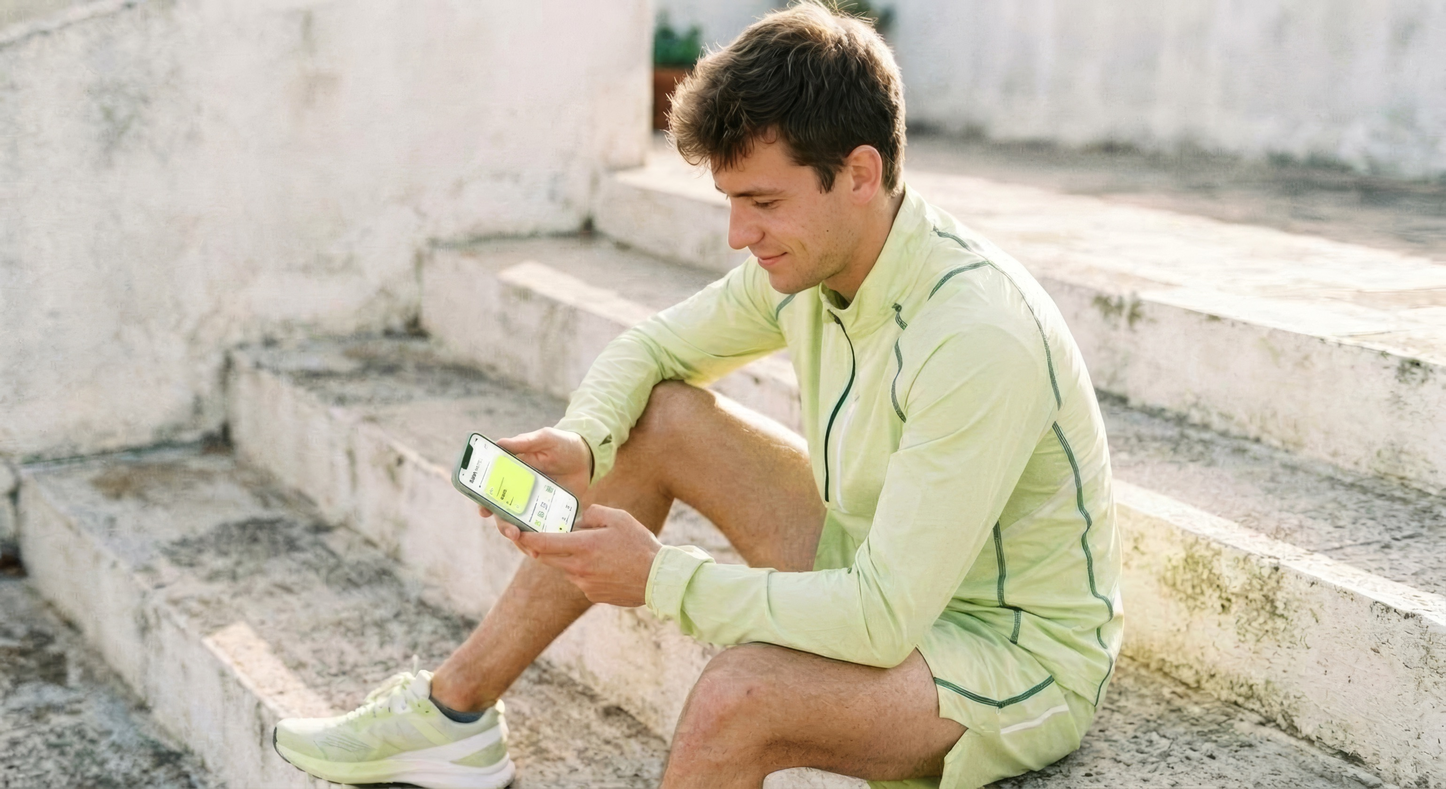
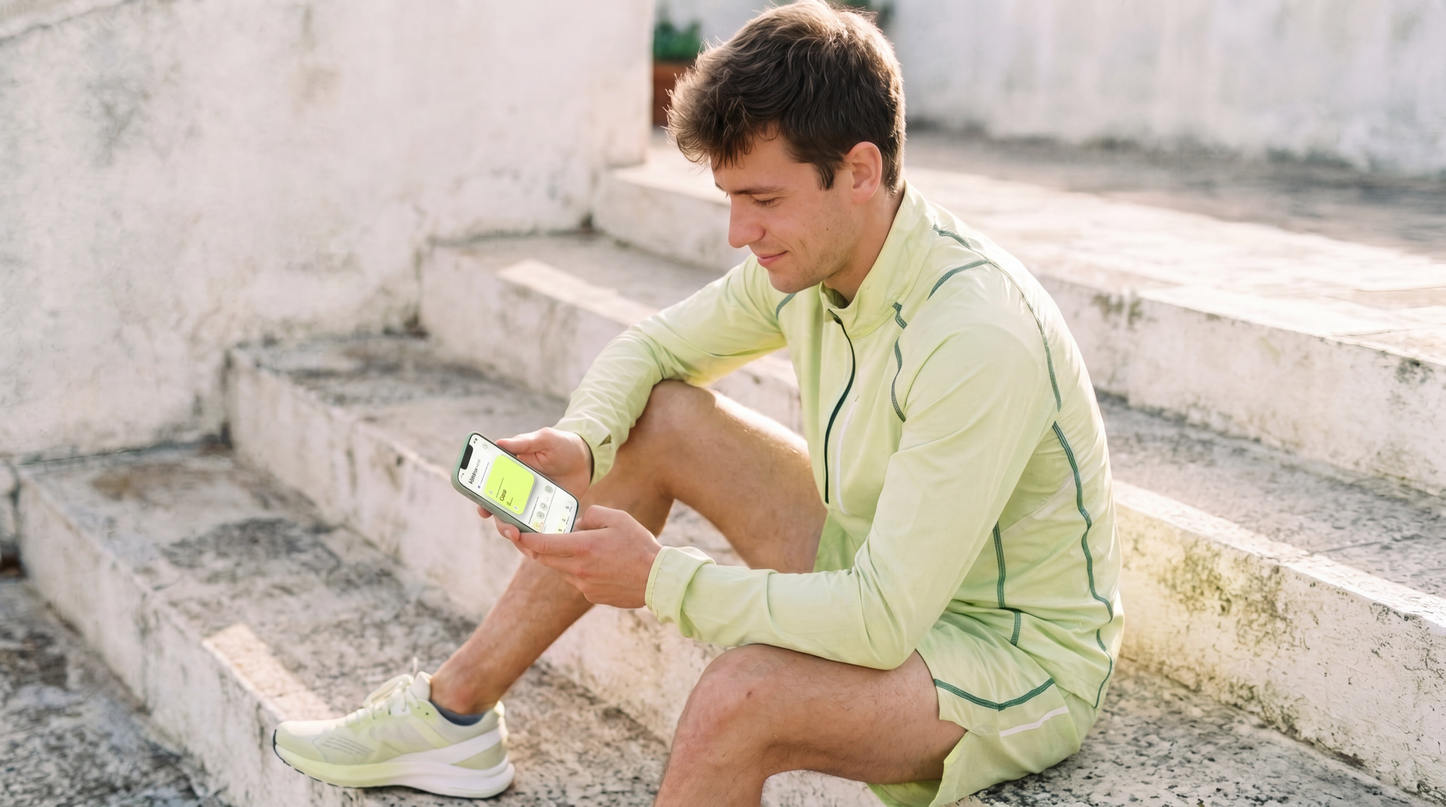
ReSway-Case: Läufer-Foto scharf, mit echtem Heute-Screen auf dem Handy

diff --git a/case-resway.html b/case-resway.html
@@ -64,7 +64,7 @@
       <p class="vi-lead"><span class="vi-mute">ReSway ist keine weitere Tracking-App, die Serien zählt.</span> Sie ist für den Moment danach: wenn eine Routine abgebrochen ist und der Wiedereinstieg am schwersten fällt.</p>
     </div>
     <figure class="vi-img">
-      <svg class="vi-photo" viewBox="320 0 800 768" preserveAspectRatio="xMidYMid slice" role="img" aria-label="Ein junger Mann in hellgrüner Sportkleidung sitzt nach dem Laufen auf Betonstufen und schaut lächelnd auf sein Handy."><image href="media/resway/bild/laeufer.jpg?v=2" width="1408" height="768"/></svg>
+      <svg class="vi-photo" viewBox="320 0 800 768" preserveAspectRatio="xMidYMid slice" role="img" aria-label="Ein junger Mann in hellgrüner Sportkleidung sitzt nach dem Laufen auf Betonstufen und schaut lächelnd auf sein Handy."><image href="media/resway/bild/laeufer.jpg?v=3" width="1408" height="768"/></svg>
       <span class="vi-tag vi-c">[ ReSway App ]</span>
       <figcaption class="sr">Bild KI-generiert, es zeigt die Stimmung, keine echte Person.</figcaption>
     </figure>

diff --git a/case-resway-en.html b/case-resway-en.html
@@ -64,7 +64,7 @@
       <p class="vi-lead"><span class="vi-mute">ReSway isn’t another habit tracker counting streaks.</span> It’s built for what comes after: the moment a routine breaks and starting again feels hardest.</p>
     </div>
     <figure class="vi-img">
-      <svg class="vi-photo" viewBox="320 0 800 768" preserveAspectRatio="xMidYMid slice" role="img" aria-label="A young man in light green sportswear sits on concrete steps after a run, smiling at his phone."><image href="media/resway/bild/laeufer.jpg?v=2" width="1408" height="768"/></svg>
+      <svg class="vi-photo" viewBox="320 0 800 768" preserveAspectRatio="xMidYMid slice" role="img" aria-label="A young man in light green sportswear sits on concrete steps after a run, smiling at his phone."><image href="media/resway/bild/laeufer.jpg?v=3" width="1408" height="768"/></svg>
       <span class="vi-tag vi-c">[ ReSway App ]</span>
       <figcaption class="sr">AI-generated image. It shows the mood, not a real person.</figcaption>
     </figure>
